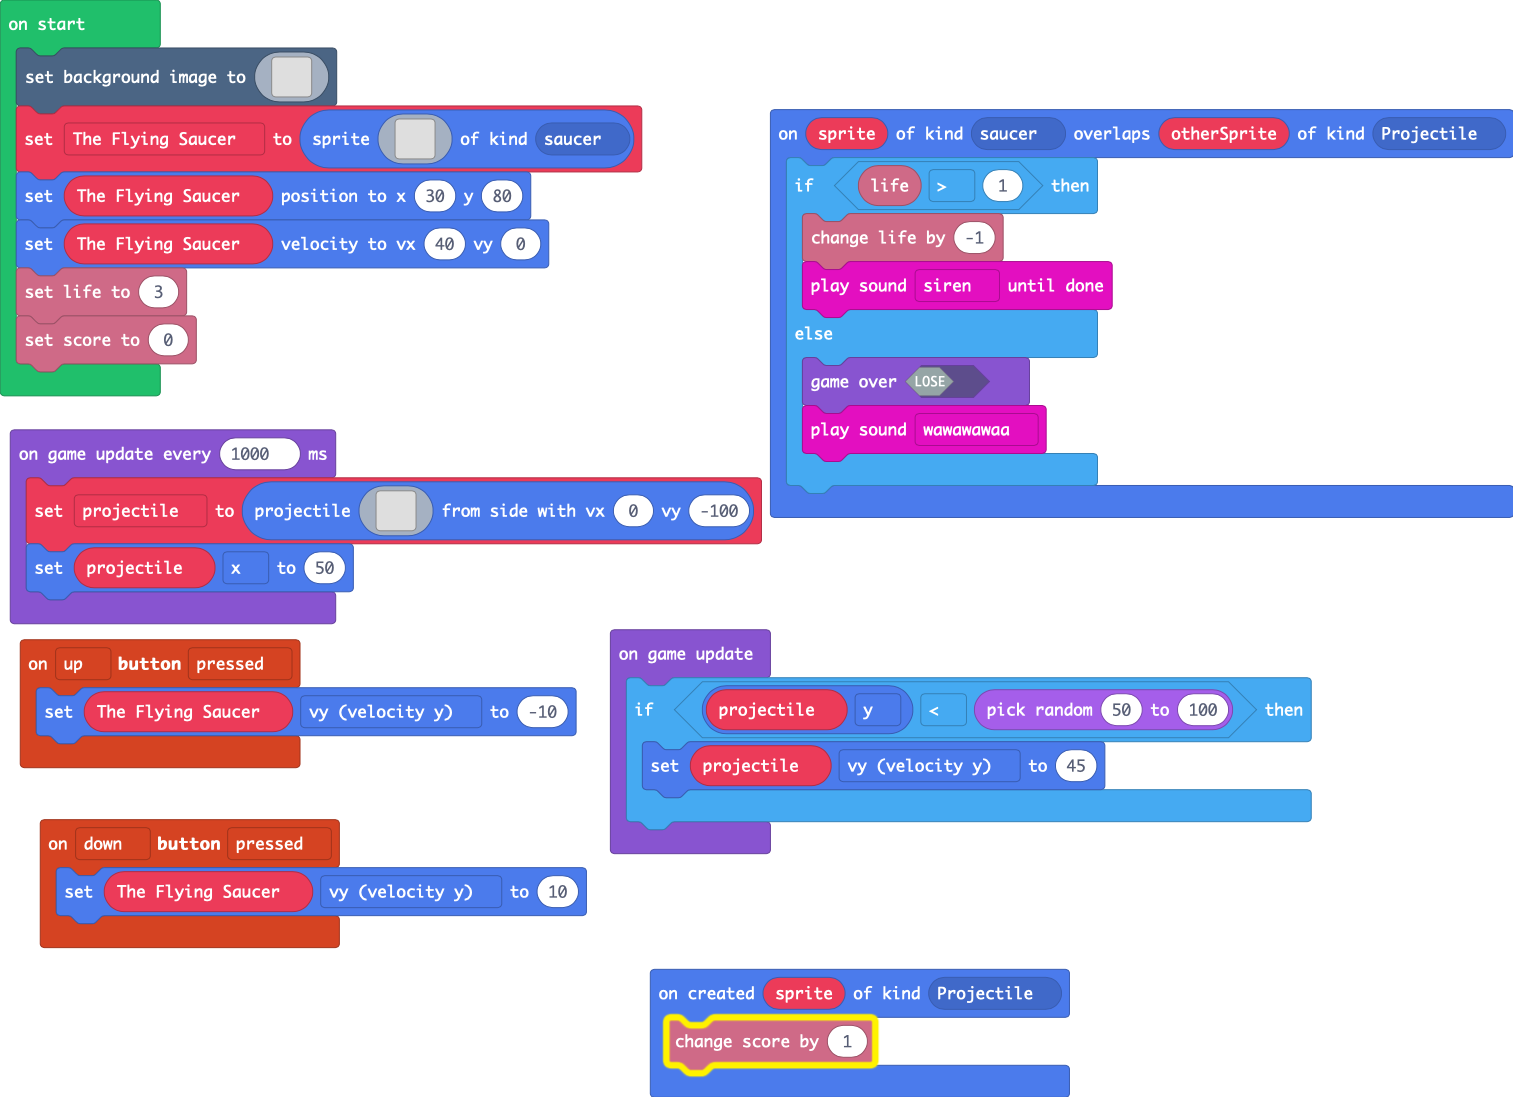
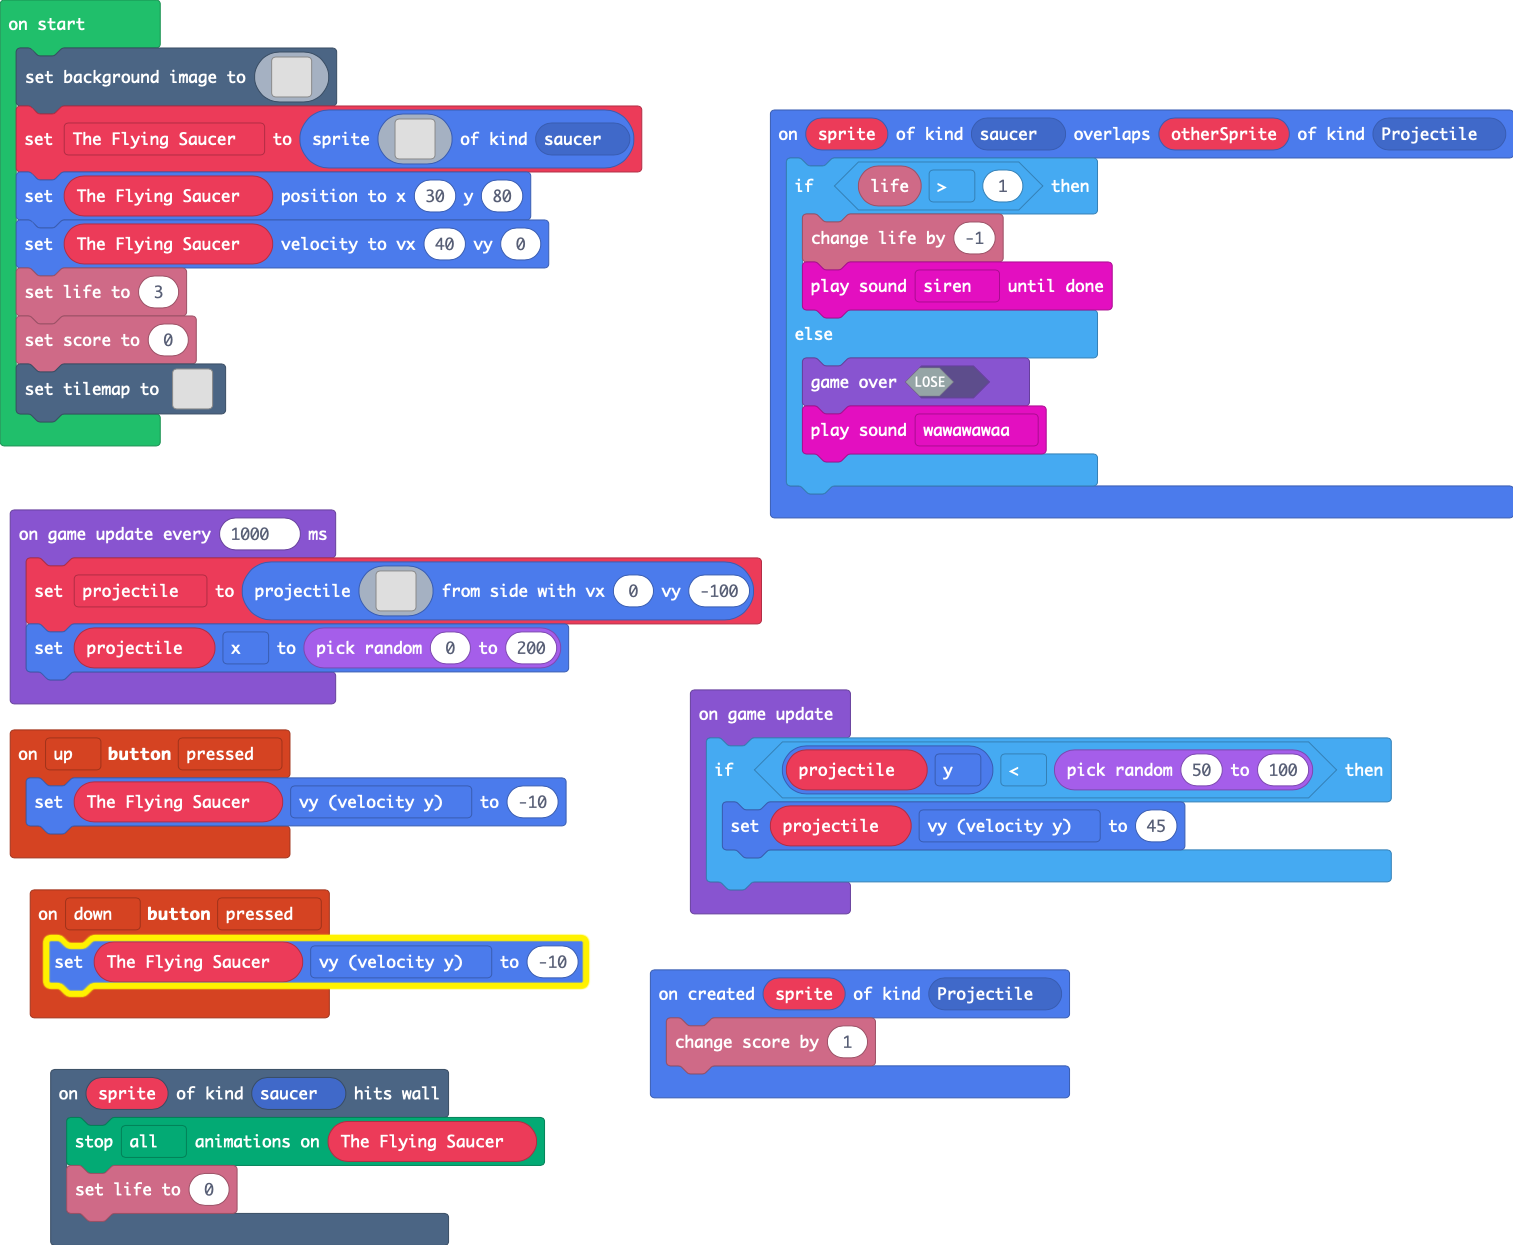
Set boundaries.

diff --git a/main.ts b/main.ts
@@ -21,12 +21,31 @@ namespace myTiles {
 . . . . . . . . . . . . . . . . 
 . . . . . . . . . . . . . . . . 
 `
+    //% blockIdentity=images._tile
+    export const tile1 = img`
+. . . . . . . . . . . . . . . . 
+. . . . . . . . . . . . . . . . 
+. . . . . . . . . . . . . . . . 
+. . . . . . . . . . . . . . . . 
+. . . . . . . . . . . . . . . . 
+. . . . . . . . . . . . . . . . 
+. . . . . . . . . . . . . . . . 
+. . . . . . . . . . . . . . . . 
+. . . . . . . . . . . . . . . . 
+. . . . . . . . . . . . . . . . 
+. . . . . . . . . . . . . . . . 
+. . . . . . . . . . . . . . . . 
+. . . . . . . . . . . . . . . . 
+. . . . . . . . . . . . . . . . 
+. . . . . . . . . . . . . . . . 
+. . . . . . . . . . . . . . . . 
+`
 }
 sprites.onCreated(SpriteKind.Projectile, function (sprite) {
     info.changeScoreBy(1)
 })
 controller.down.onEvent(ControllerButtonEvent.Pressed, function () {
-    The_Flying_Saucer.vy = 10
+    The_Flying_Saucer.vy = -10
 })
 sprites.onOverlap(SpriteKind.saucer, SpriteKind.Projectile, function (sprite, otherSprite) {
     if (info.life() > 1) {
@@ -36,6 +55,10 @@ sprites.onOverlap(SpriteKind.saucer, SpriteKind.Projectile, function (sprite, ot
         game.over(false)
         music.wawawawaa.play()
     }
+})
+scene.onHitWall(SpriteKind.saucer, function (sprite) {
+    animation.stopAnimation(animation.AnimationTypes.All, The_Flying_Saucer)
+    info.setLife(0)
 })
 controller.up.onEvent(ControllerButtonEvent.Pressed, function () {
     The_Flying_Saucer.vy = -10
@@ -194,6 +217,21 @@ The_Flying_Saucer.setPosition(30, 80)
 The_Flying_Saucer.setVelocity(40, 0)
 info.setLife(3)
 info.setScore(0)
+tiles.setTilemap(tiles.createTilemap(
[1 lines of base64/hex data omitted]
+            img`
+. . . . . . . . . . 
+. . . . . . . . . . 
+. . . . . . . . . . 
+. . . . . . . . . . 
+. . . . . . . . . . 
+. . . . . . . . . . 
+. . . . . . . . . . 
+. . . . . . . . . . 
+`,
+            [myTiles.tile0,sprites.castle.tileGrass2,sprites.builtin.forestTiles0,sprites.castle.shrub,sprites.castle.saplingPine,myTiles.tile1,sprites.castle.saplingOak],
+            TileScale.Sixteen
+        ))
 game.onUpdate(function () {
     if (projectile.y < Math.randomRange(50, 100)) {
         projectile.vy = 45
@@ -258,5 +296,5 @@ game.onUpdateInterval(1000, function () {
 . . . . . . c e 7 7 e e e e 6 7 e e . . . . . . 
 . . . . . . c e 6 e e e e e e 6 e e . . . . . . 
 `, 0, -100)
-    projectile.x = 50
+    projectile.x = Math.randomRange(0, 200)
 })
